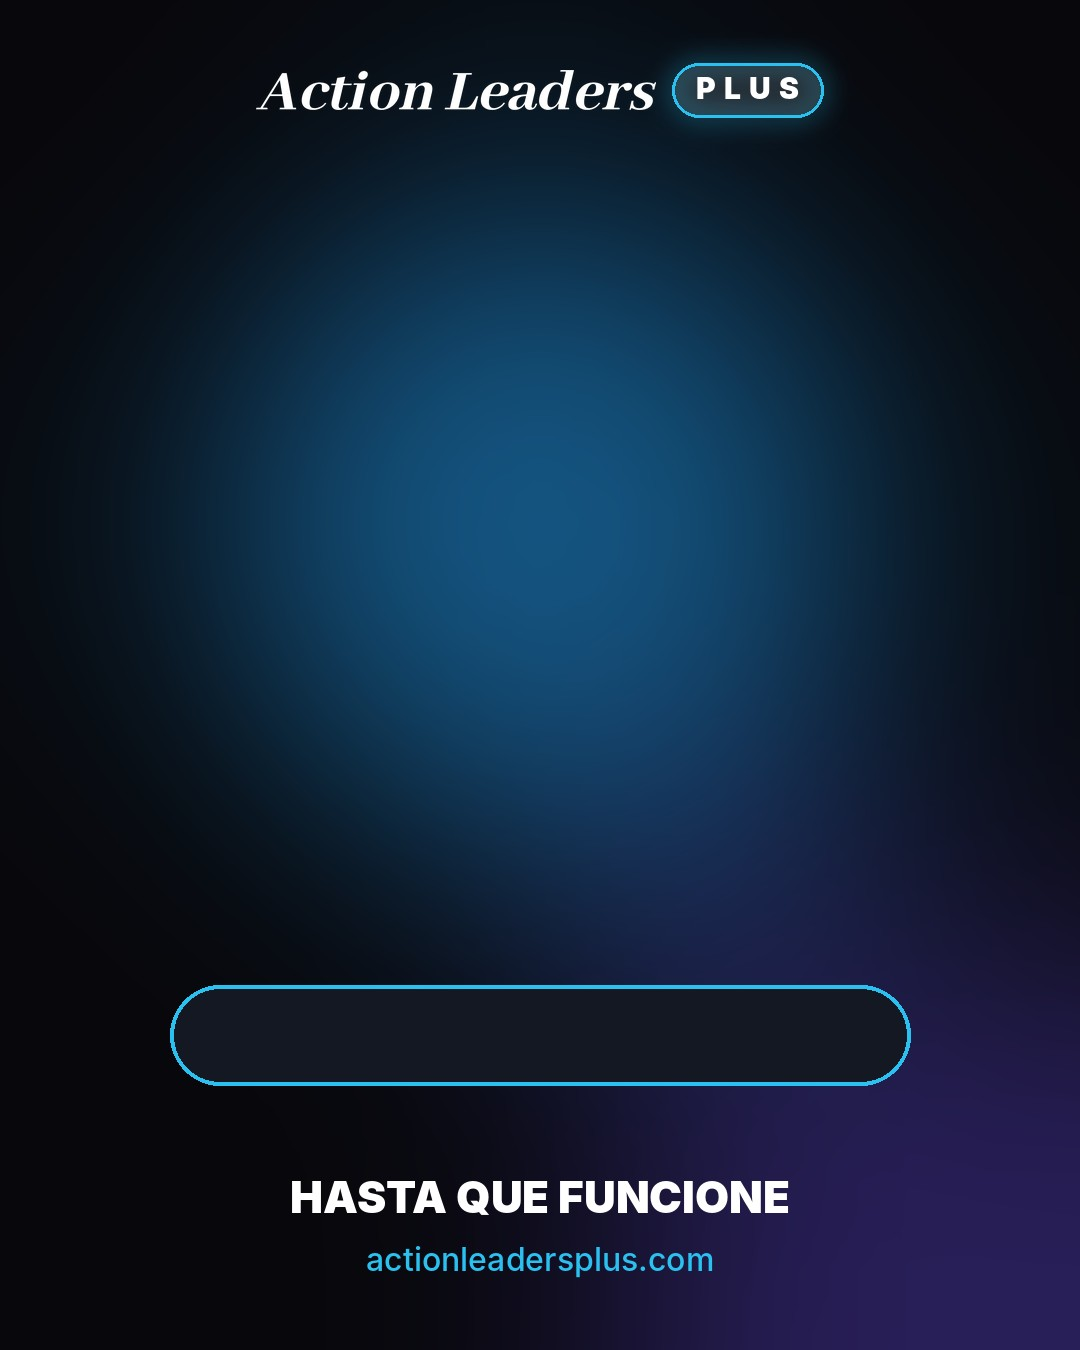
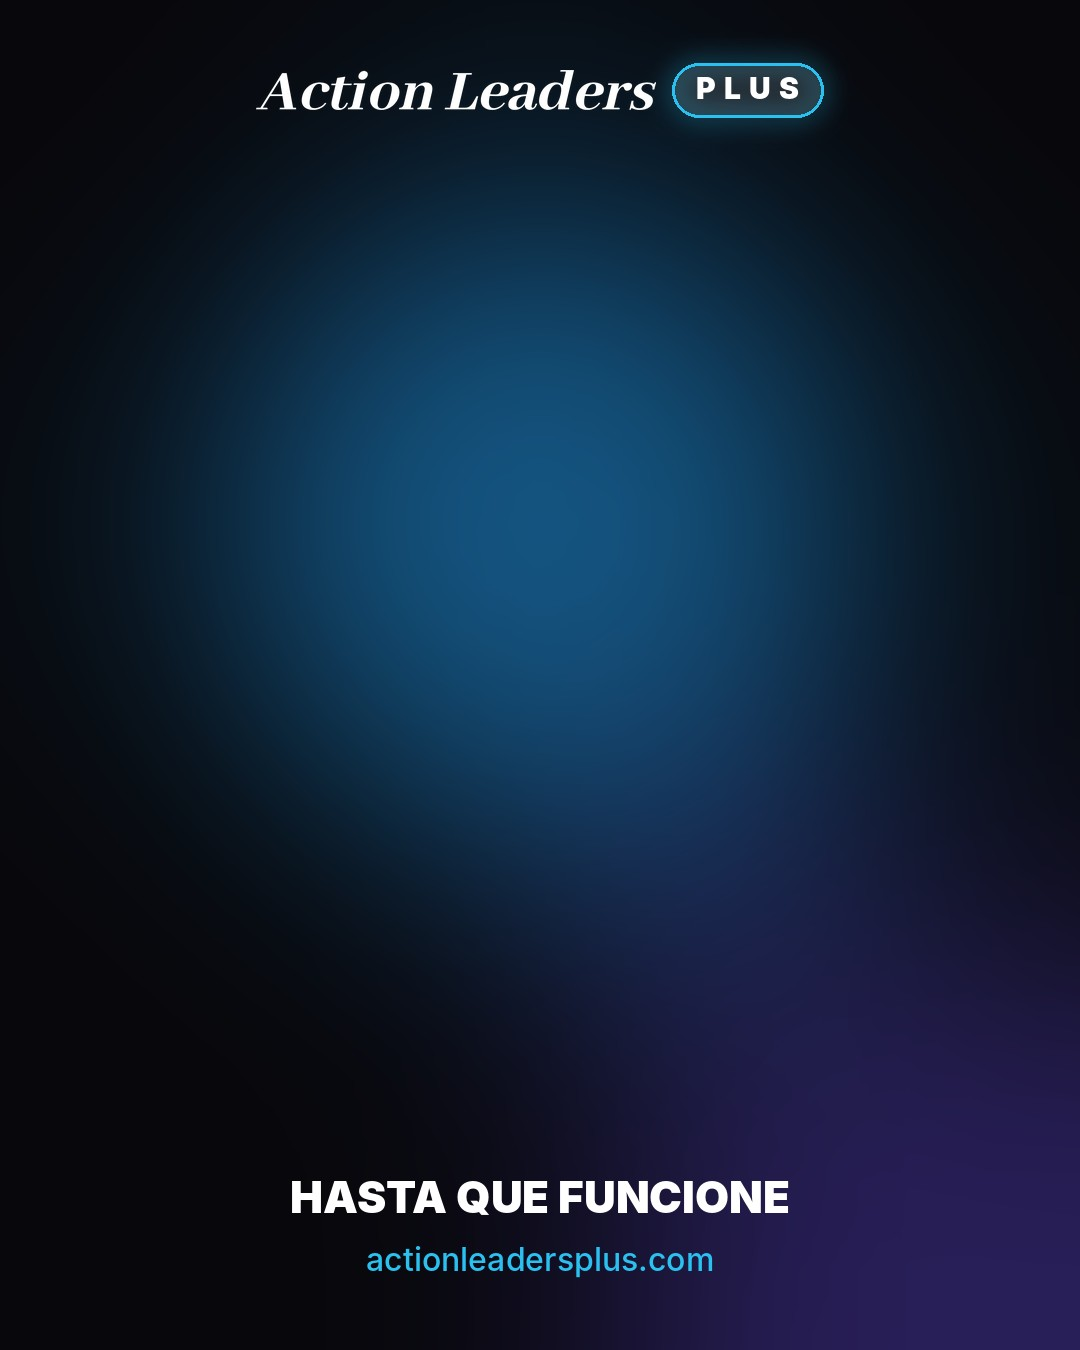
Bienvenida: país con bandera y patrocinador centrado
Claude-Session: https://claude.ai/code/session_01Ap9s35NhKbdW3Dyth6SLE7

Changed region(s): [[0.55, 0.7156, 0.8556, 0.8089], [0.1528, 0.7156, 0.5194, 0.8089]]

diff --git a/index.html b/index.html
@@ -1036,7 +1036,9 @@ Cualquier duda, aquí estoy para apoyarle. ¡Hasta que funcione! 🚀
 ${pat}`;
 const BIEN_TH={classic:{img:"media/flyers/bienvenida-classic.jpg",acc:"#2AC1F1",hl:"#2AC1F1",glow:"rgba(42,193,241,.85)",txt:"#0a141e",lab:"SOCIO CLASSIC"},
   premium:{img:"media/flyers/bienvenida-premium.jpg",acc:"#F0F0F2",hl:"#6EC8F5",glow:"rgba(80,170,240,.8)",txt:"#08080a",lab:"SOCIO PREMIUM"}};
-async function bienCanvas(n,f,pat,plan,fotoSrc){const W=1080,H=1350,cv=document.createElement("canvas");cv.width=W;cv.height=H;const g=cv.getContext("2d");const T=BIEN_TH[plan]||BIEN_TH.classic;
+const PAIS_ISO={"Honduras":"HN","Estados Unidos":"US","España":"ES","Reino Unido":"GB","Guatemala":"GT","El Salvador":"SV","Nicaragua":"NI","Costa Rica":"CR","Panamá":"PA","México":"MX","Colombia":"CO","Venezuela":"VE","Perú":"PE","Ecuador":"EC","Chile":"CL","Argentina":"AR","República Dominicana":"DO","Canadá":"CA","Italia":"IT","Francia":"FR","Alemania":"DE"};
+const bandera=p=>{const c=PAIS_ISO[p];return c?String.fromCodePoint(...[...c].map(x=>127397+x.charCodeAt(0))):""};
+async function bienCanvas(n,f,pat,plan,fotoSrc,pais){const W=1080,H=1350,cv=document.createElement("canvas");cv.width=W;cv.height=H;const g=cv.getContext("2d");const T=BIEN_TH[plan]||BIEN_TH.classic;
   try{await Promise.all(["800 90px 'Bricolage Grotesque'","500 40px Figtree","700 40px Figtree"].map(x=>document.fonts.load(x)))}catch(x){}
   const HF="'Bricolage Grotesque', Figtree, Arial, sans-serif",BF="Figtree, Arial, sans-serif";
   const bg=await imgLoad(T.img);if(bg)g.drawImage(bg,0,0,W,H);
@@ -1049,18 +1051,25 @@ async function bienCanvas(n,f,pat,plan,fotoSrc){const W=1080,H=1350,cv=document.
     g.restore();g.beginPath();g.arc(cx,cy,r+lw/2,0,Math.PI*2);g.lineWidth=lw;g.strokeStyle=T.acc;g.stroke()};
   await circle(fotoSrc,540,420,175,10,true,n);
   g.font="900 30px "+BF;const lw=g.measureText(T.lab).width+60;g.beginPath();g.roundRect(540-lw/2,575,lw,52,26);g.fillStyle=T.acc;g.fill();g.fillStyle=T.txt;g.textAlign="center";g.font="800 30px "+BF;g.fillText(T.lab,540,612);
-  g.fillStyle=T.hl;g.font="700 40px "+BF;g.fillText(f?"¡BIENVENIDA A LA FAMILIA!":"¡BIENVENIDO A LA FAMILIA!",540,720);
-  g.fillStyle="#fff";fit(n,"800 {s}px "+HF,112,940);g.fillText(n,540,850);
-  g.fillStyle="#d2d7e1";g.font="500 44px "+BF;g.fillText("Hoy empieza tu nueva historia.",540,935);
-  await circle(miFotoUrl(),228,1035,40,4,false,pat);
-  g.textAlign="left";g.fillStyle=T.hl;g.font="700 24px "+BF;g.fillText("TU PATROCINADOR",290,1022);g.fillStyle="#fff";fit(pat,"700 {s}px "+BF,38,590);g.fillText(pat,290,1068);
+  g.fillStyle=T.hl;g.font="700 40px "+BF;g.fillText(f?"¡BIENVENIDA A LA FAMILIA!":"¡BIENVENIDO A LA FAMILIA!",540,705);
+  g.fillStyle="#fff";fit(n,"800 {s}px "+HF,108,940);g.fillText(n,540,825);
+  if(pais){g.font="700 38px "+BF;const fl=bandera(pais),tx=pais.toUpperCase();g.fillStyle="#fff";g.font="40px 'Apple Color Emoji','Segoe UI Emoji','Noto Color Emoji',sans-serif";const fw=fl?g.measureText(fl).width+14:0;g.font="700 34px "+BF;const tw=g.measureText(tx).width;const x0=540-(fw+tw)/2;
+    g.textAlign="left";if(fl){g.font="40px 'Apple Color Emoji','Segoe UI Emoji','Noto Color Emoji',sans-serif";g.fillText(fl,x0,888)}g.font="700 34px "+BF;g.fillStyle="#d2d7e1";g.fillText(tx,x0+fw,886);g.textAlign="center"}
+  g.fillStyle="#d2d7e1";g.font="500 40px "+BF;g.fillText("Hoy empieza tu nueva historia.",540,pais?950:900);
+  // patrocinador centrado
+  g.font="700 24px "+BF;const l1="TU PATROCINADOR";let w1=g.measureText(l1).width;let ps=38;g.font="700 "+ps+"px "+BF;while(g.measureText(pat).width>560&&ps>22){ps--;g.font="700 "+ps+"px "+BF}const w2=g.measureText(pat).width;
+  const tw2=Math.max(w1,w2),bw=80+22+tw2,bx=540-bw/2,by=1005,pw=bw+70;
+  g.beginPath();g.roundRect(540-pw/2,by-12,pw,104,52);g.fillStyle="rgba(20,24,34,.95)";g.fill();g.lineWidth=4;g.strokeStyle=T.acc;g.stroke();
+  await circle(miFotoUrl(),bx+40,by+40,38,4,false,pat);
+  g.textAlign="left";g.fillStyle=T.hl;g.font="700 24px "+BF;g.fillText(l1,bx+102,by+28);g.fillStyle="#fff";g.font="700 "+ps+"px "+BF;g.fillText(pat,bx+102,by+72);g.textAlign="center";
   return cv}
 function fotoReduce400(file){return new Promise((ok,ko)=>{const u=URL.createObjectURL(file),im=new Image();im.onload=()=>{const S=480,c=document.createElement("canvas");c.width=c.height=S;const m=Math.min(im.width,im.height);c.getContext("2d").drawImage(im,(im.width-m)/2,Math.max(0,(im.height-m)/2.6),m,m,0,0,S,S);URL.revokeObjectURL(u);ok(c.toDataURL("image/jpeg",.88))};im.onerror=()=>{URL.revokeObjectURL(u);ko(new Error("img"))};im.src=u})}
-function abrirBienvenida(c){c=c||{};let n=(c.name||"").trim(),f=false,file=null,plan="classic",foto="";let tel=c.phone?waNum(c.phone,c.cc):"";const pat=miNombreCorto()||"Tu patrocinador",sinTel=!c.phone;
+function abrirBienvenida(c){c=c||{};let n=(c.name||"").trim(),f=false,file=null,plan="classic",foto="",pais=c.ccN||(c.cc?(PAISES.find(x=>x[1]===c.cc)||[""])[0]:"")||"Honduras";let tel=c.phone?waNum(c.phone,c.cc):"";const pat=miNombreCorto()||"Tu patrocinador",sinTel=!c.phone;
   openSheet(`<h2>🎉 Bienvenida a socio nuevo</h2>
    <div class="field"><label for="bnN">Nombre del socio nuevo</label><input class="inp" id="bnN" value="${esc(n)}" placeholder="Nombre y apellido"></div>
    ${sinTel?`<div class="grid2"><div class="field"><label for="bnCC">País</label><select class="inp" id="bnCC">${PAISES.map(([pn,k],i)=>`<option value="${k}" ${k===(LS.get("lastCC")||"504")&&i===PAISES.findIndex(x=>x[1]===(LS.get("lastCC")||"504"))?"selected":""}>${pn} (+${k})</option>`).join("")}</select></div>
    <div class="field"><label for="bnTel">WhatsApp <span class="muted">(opcional)</span></label><input class="inp" id="bnTel" type="tel" autocomplete="tel" placeholder="Solo el número"></div></div>`:""}
+   <div class="field"><label for="bnPais">País del socio</label><select class="inp" id="bnPais">${PAISES.filter((x,i,a)=>a.findIndex(y=>y[0]===x[0])===i).map(([pn])=>`<option ${pn===pais?"selected":""}>${pn}</option>`).join("")}<option value="">No mostrar país</option></select></div>
    <div class="seg" id="bnG"><button aria-selected="true" data-g="m" type="button">Bienvenido</button><button aria-selected="false" data-g="f" type="button">Bienvenida</button></div>
    <div class="seg" id="bnP"><button aria-selected="true" data-p="classic" type="button">Classic</button><button aria-selected="false" data-p="premium" type="button">Premium</button></div>
    <label class="btn ghost" style="width:100%;justify-content:center;cursor:pointer">📷 Foto del socio nuevo<input type="file" id="bnFoto" accept="image/*" hidden></label>
@@ -1070,12 +1079,13 @@ function abrirBienvenida(c){c=c||{};let n=(c.name||"").trim(),f=false,file=null,
    <a class="btn ghost" id="bnWa" style="width:100%;justify-content:center${tel?"":";display:none"}" target="_blank" rel="noopener">Abrir chat de WhatsApp</a>
    <button class="btn ghost" data-close style="width:100%">Cerrar</button>`,()=>{
     let tk=0;const upd=async()=>{n=$("#bnN").value.trim().replace(/\s+/g," ");const my=++tk;const box=$("#bnBox");if(!n){box.innerHTML='<span class="small" style="color:#fff">Escribe el nombre…</span>';file=null;return}
-      const cv=await bienCanvas(n,f,pat,plan,foto);if(my!==tk)return;const b=await new Promise(ok=>cv.toBlob(ok,"image/jpeg",.9));file=new File([b],"Bienvenida-"+n.replace(/\s+/g,"-")+".jpg",{type:"image/jpeg"});
+      const cv=await bienCanvas(n,f,pat,plan,foto,pais);if(my!==tk)return;const b=await new Promise(ok=>cv.toBlob(ok,"image/jpeg",.9));file=new File([b],"Bienvenida-"+n.replace(/\s+/g,"-")+".jpg",{type:"image/jpeg"});
       box.innerHTML="";const im=new Image();im.src=URL.createObjectURL(b);im.style.cssText="width:100%;height:100%;object-fit:cover";box.appendChild(im);
       const wa=$("#bnWa");if(wa)wa.href="https://wa.me/"+tel+"?text="+encodeURIComponent(BIEN_MSG(n,f,pat))};
     let deb;$("#bnN").oninput=()=>{clearTimeout(deb);deb=setTimeout(upd,450)};
     const tI=$("#bnTel");if(tI){const syncTel=()=>{const v=tI.value;if(/^\s*(\+|00)/.test(v)){const sp=splitPhone(v);if(sp.cc){$("#bnCC").value=sp.cc;tI.value=sp.num}}tel=tI.value.trim()?waNum(tI.value,$("#bnCC").value):"";const wa=$("#bnWa");wa.style.display=tel?"":"none";if(n)wa.href="https://wa.me/"+tel+"?text="+encodeURIComponent(BIEN_MSG(n,f,pat))};tI.oninput=syncTel;tI.onchange=syncTel;$("#bnCC").onchange=()=>{LS.set("lastCC",$("#bnCC").value);syncTel()}}
     $("#bnG").onclick=e=>{const b=e.target.closest("[data-g]");if(!b)return;f=b.dataset.g==="f";$("#bnG").querySelectorAll("button").forEach(x=>x.setAttribute("aria-selected",x===b));upd()};
+    $("#bnPais").onchange=()=>{pais=$("#bnPais").value;upd()};
     $("#bnP").onclick=e=>{const b=e.target.closest("[data-p]");if(!b)return;plan=b.dataset.p;$("#bnP").querySelectorAll("button").forEach(x=>x.setAttribute("aria-selected",x===b));upd()};
     $("#bnFoto").onchange=async e=>{const fl=e.target.files&&e.target.files[0];if(!fl)return;try{foto=await fotoReduce400(fl);toast("Foto lista")}catch(x){toast("No se pudo usar esa foto")}upd()};
     $("#bnCopy").onclick=async()=>{if(!n)return toast("Escribe el nombre");try{await navigator.clipboard.writeText(BIEN_MSG(n,f,pat));toast("Mensaje copiado")}catch(x){toast("No se pudo copiar")}};
@@ -1590,7 +1600,7 @@ window.addEventListener("fb-auth",e=>{location.reload()});
 })();
 </script>
 <script>
-(function(){var V="20261019002610";var busy=false,pend=null;
+(function(){var V="20261019002845";var busy=false,pend=null;
  function go(t){var u=location.pathname+"?v="+t+location.hash;try{location.replace(u)}catch(e){location.reload()}}
  function idle(){var sh=document.getElementById("sheet"),w=document.getElementById("wel");var a=document.activeElement;
   return (!sh||sh.hidden)&&(!w||w.hidden)&&!(a&&/INPUT|TEXTAREA|SELECT/.test(a.tagName))}
